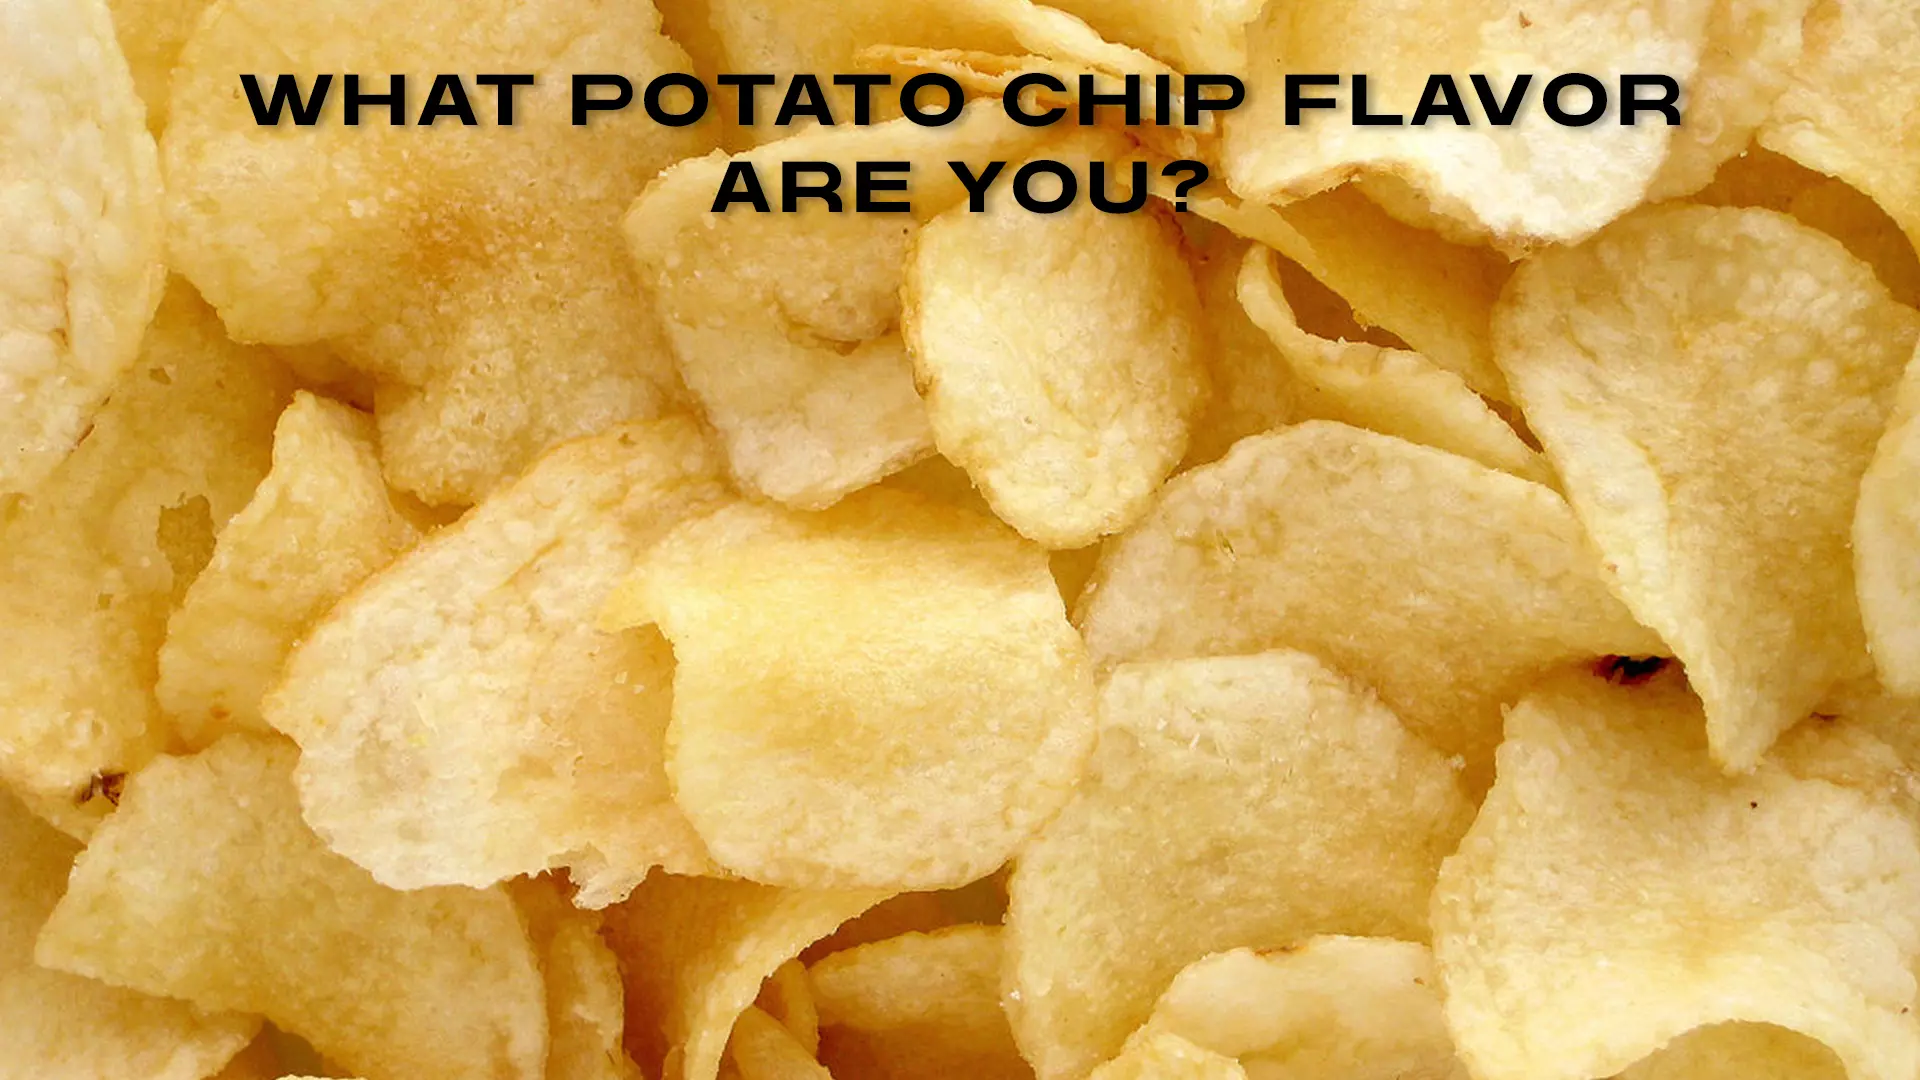
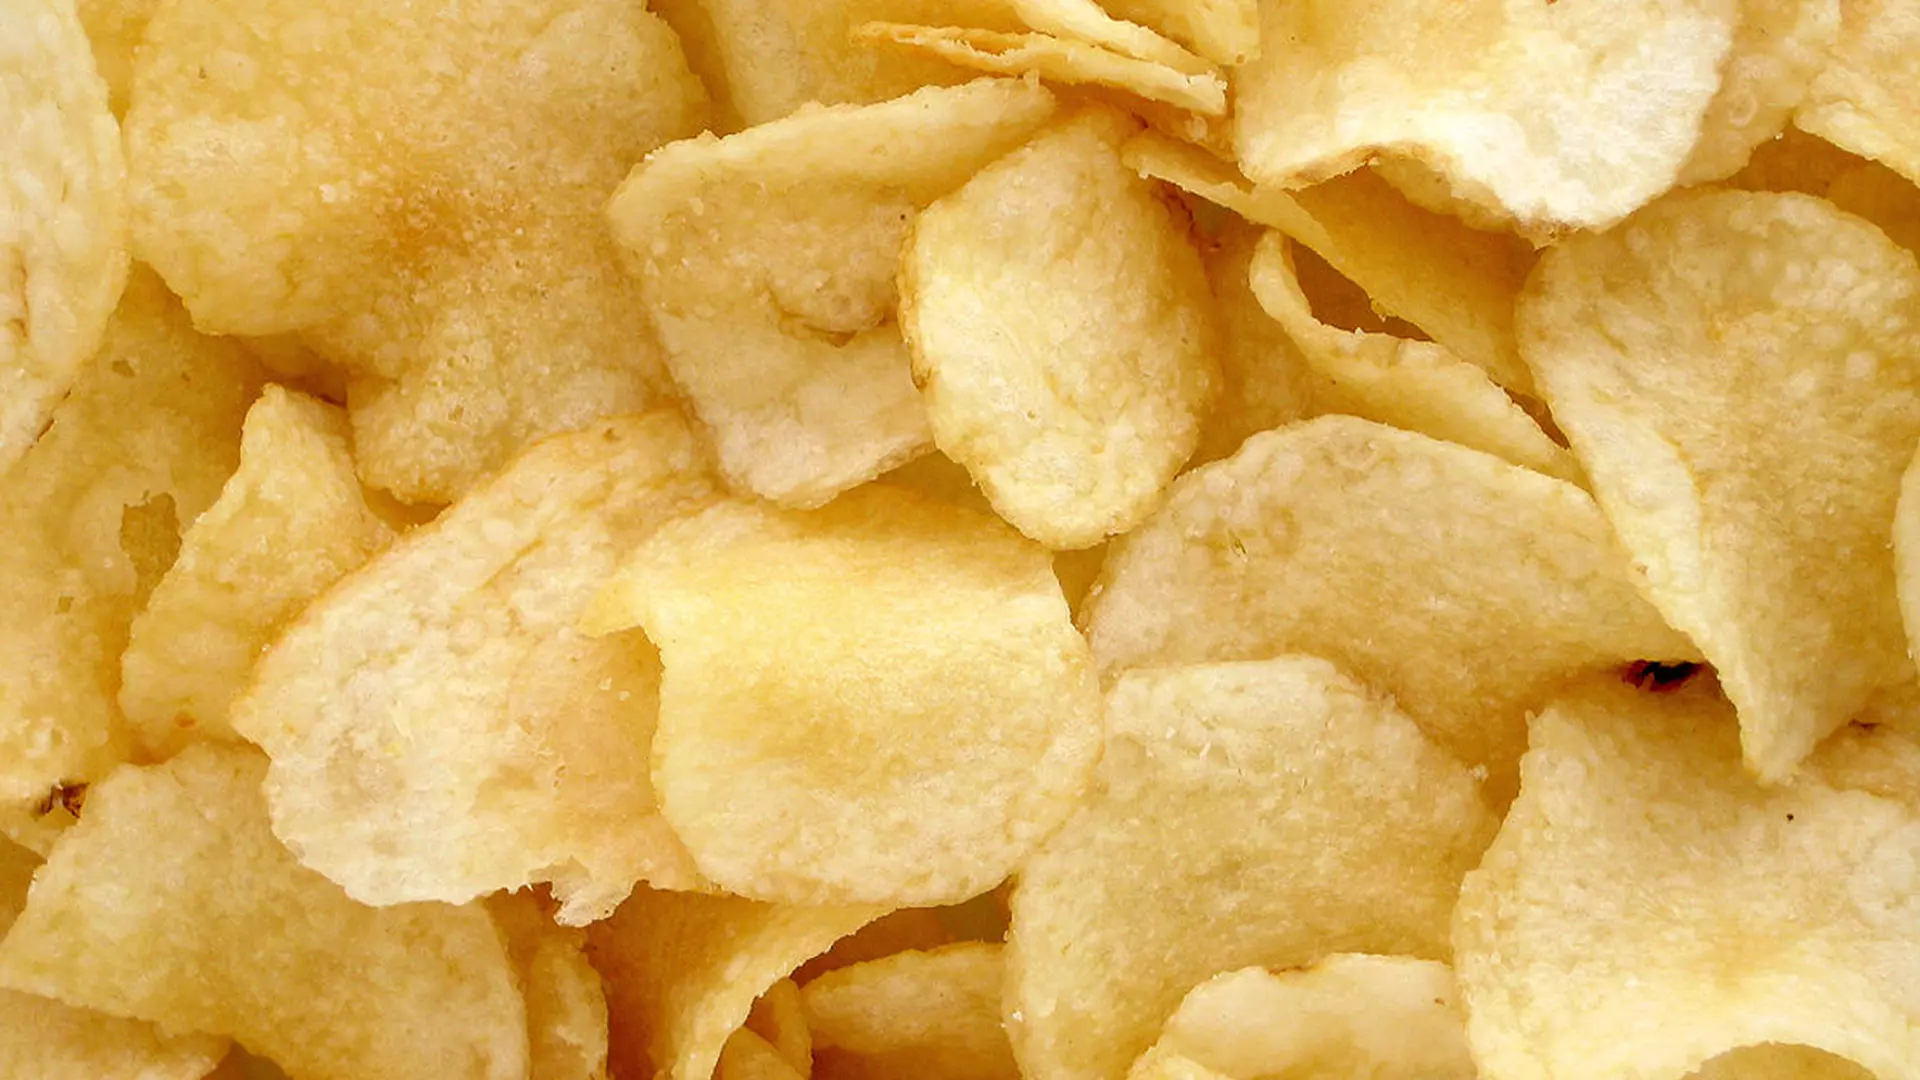
Background fix, border fixes, modal image fixes

diff --git a/main.css b/main.css
@@ -40,7 +40,8 @@ body.blackScreen {
   max-width: 60%;
   max-height: 12rem;
   box-shadow: 10px 10px 50px 10px #000000;
-  border-radius: 10px;
+  border: 0.5rem groove #335145;
+  border-radius: 40px;
 }
 
 .manualchoice {
@@ -92,11 +93,11 @@ body.blackScreen {
   display: flex;
   justify-content: center;
   align-items: center;
-  margin: 14rem 0 0 0;
+  margin: 12rem 0 0 0;
 }
 
 .titleAndDate {
-	margin: 0
+	margin: 0;
 }
 
 
@@ -174,7 +175,7 @@ button:hover {
 
 .modal-body {
 	background-color: #CCA831;
-	border: 1rem solid #335145;
+	border: 1rem groove #335145;
 
 	height: 80vh;
 	max-width: 50vw;
@@ -192,13 +193,14 @@ button:hover {
 	font-weight: 300;
 	text-align: center;
 
-	border-radius: 1rem;
+	border-radius: 50px;
+
 }
 
 /* Modal Content Styling */
 
 #zDisplayImg {
-	max-height: 8rem;
+	max-height: 14rem;
 	margin-top: 1rem;
 }
 
@@ -214,4 +216,14 @@ button:hover {
 
 #zMoreInfo {
 	font-size: 1rem;
+}
+
+/* Header Styling */
+
+h1.title {
+	font-family: "National Park", -apple-system, BlinkMacSystemFont, "Segoe UI", Roboto, Helvetica, Arial, sans-serif, "Apple Color Emoji", "Segoe UI Emoji", "Segoe UI Symbol";
+	font-size: 3.5rem;
+	text-align: center;
+	margin-top: 1rem;
+	text-shadow: 5px 5px #E46F62;
 }

diff --git a/index.html b/index.html
@@ -48,6 +48,13 @@ Sagittarius-    Baked
 <audio id="sndBaked"  src="sounds/sndBaked.mp3" preload="auto"></audio>
 <audio id="sndKettleCooked"  src="sounds/sndKettleCooked.mp3" preload="auto"></audio>
 
+  <div class="titleObj">
+    <h1 class="title">
+      WHAT POTATO CHIP FLAVOR ARE YOU?
+    </h1>
+  </div>
+
+
   <div class="formbox">
     <div class="wrapper">
       <h1>
@@ -55,7 +62,7 @@ Sagittarius-    Baked
       </h1>
         <!-- Form to submit name/date: -->
       <form id="userInfo" name="myForm">
-        <div class="control">
+        <!--<div class="control">
           <label for="name">Name</label>
           <input
             type="text"
@@ -64,7 +71,7 @@ Sagittarius-    Baked
             placeholder="Your First Name"
             required
           />
-        </div>
+        </div>-->
         <div class="control">
           <label for="date">Date</label>
           <input

diff --git a/main.js b/main.js
@@ -176,8 +176,8 @@ userSubmitObj.addEventListener('click', function () {
   console.log('User submit button clicked');
 
   // Get the user's first name and store it in a var
-  const userFirstName = document.getElementById('fname').value;
-  console.log('userFirstName is: ' + userFirstName);
+  //const userFirstName = document.getElementById('fname').value;
+  //console.log('userFirstName is: ' + userFirstName);
 
   // Get the user's date and extract the month of year and day of month
   const userBday = new Date(document.getElementById('bday').value);
